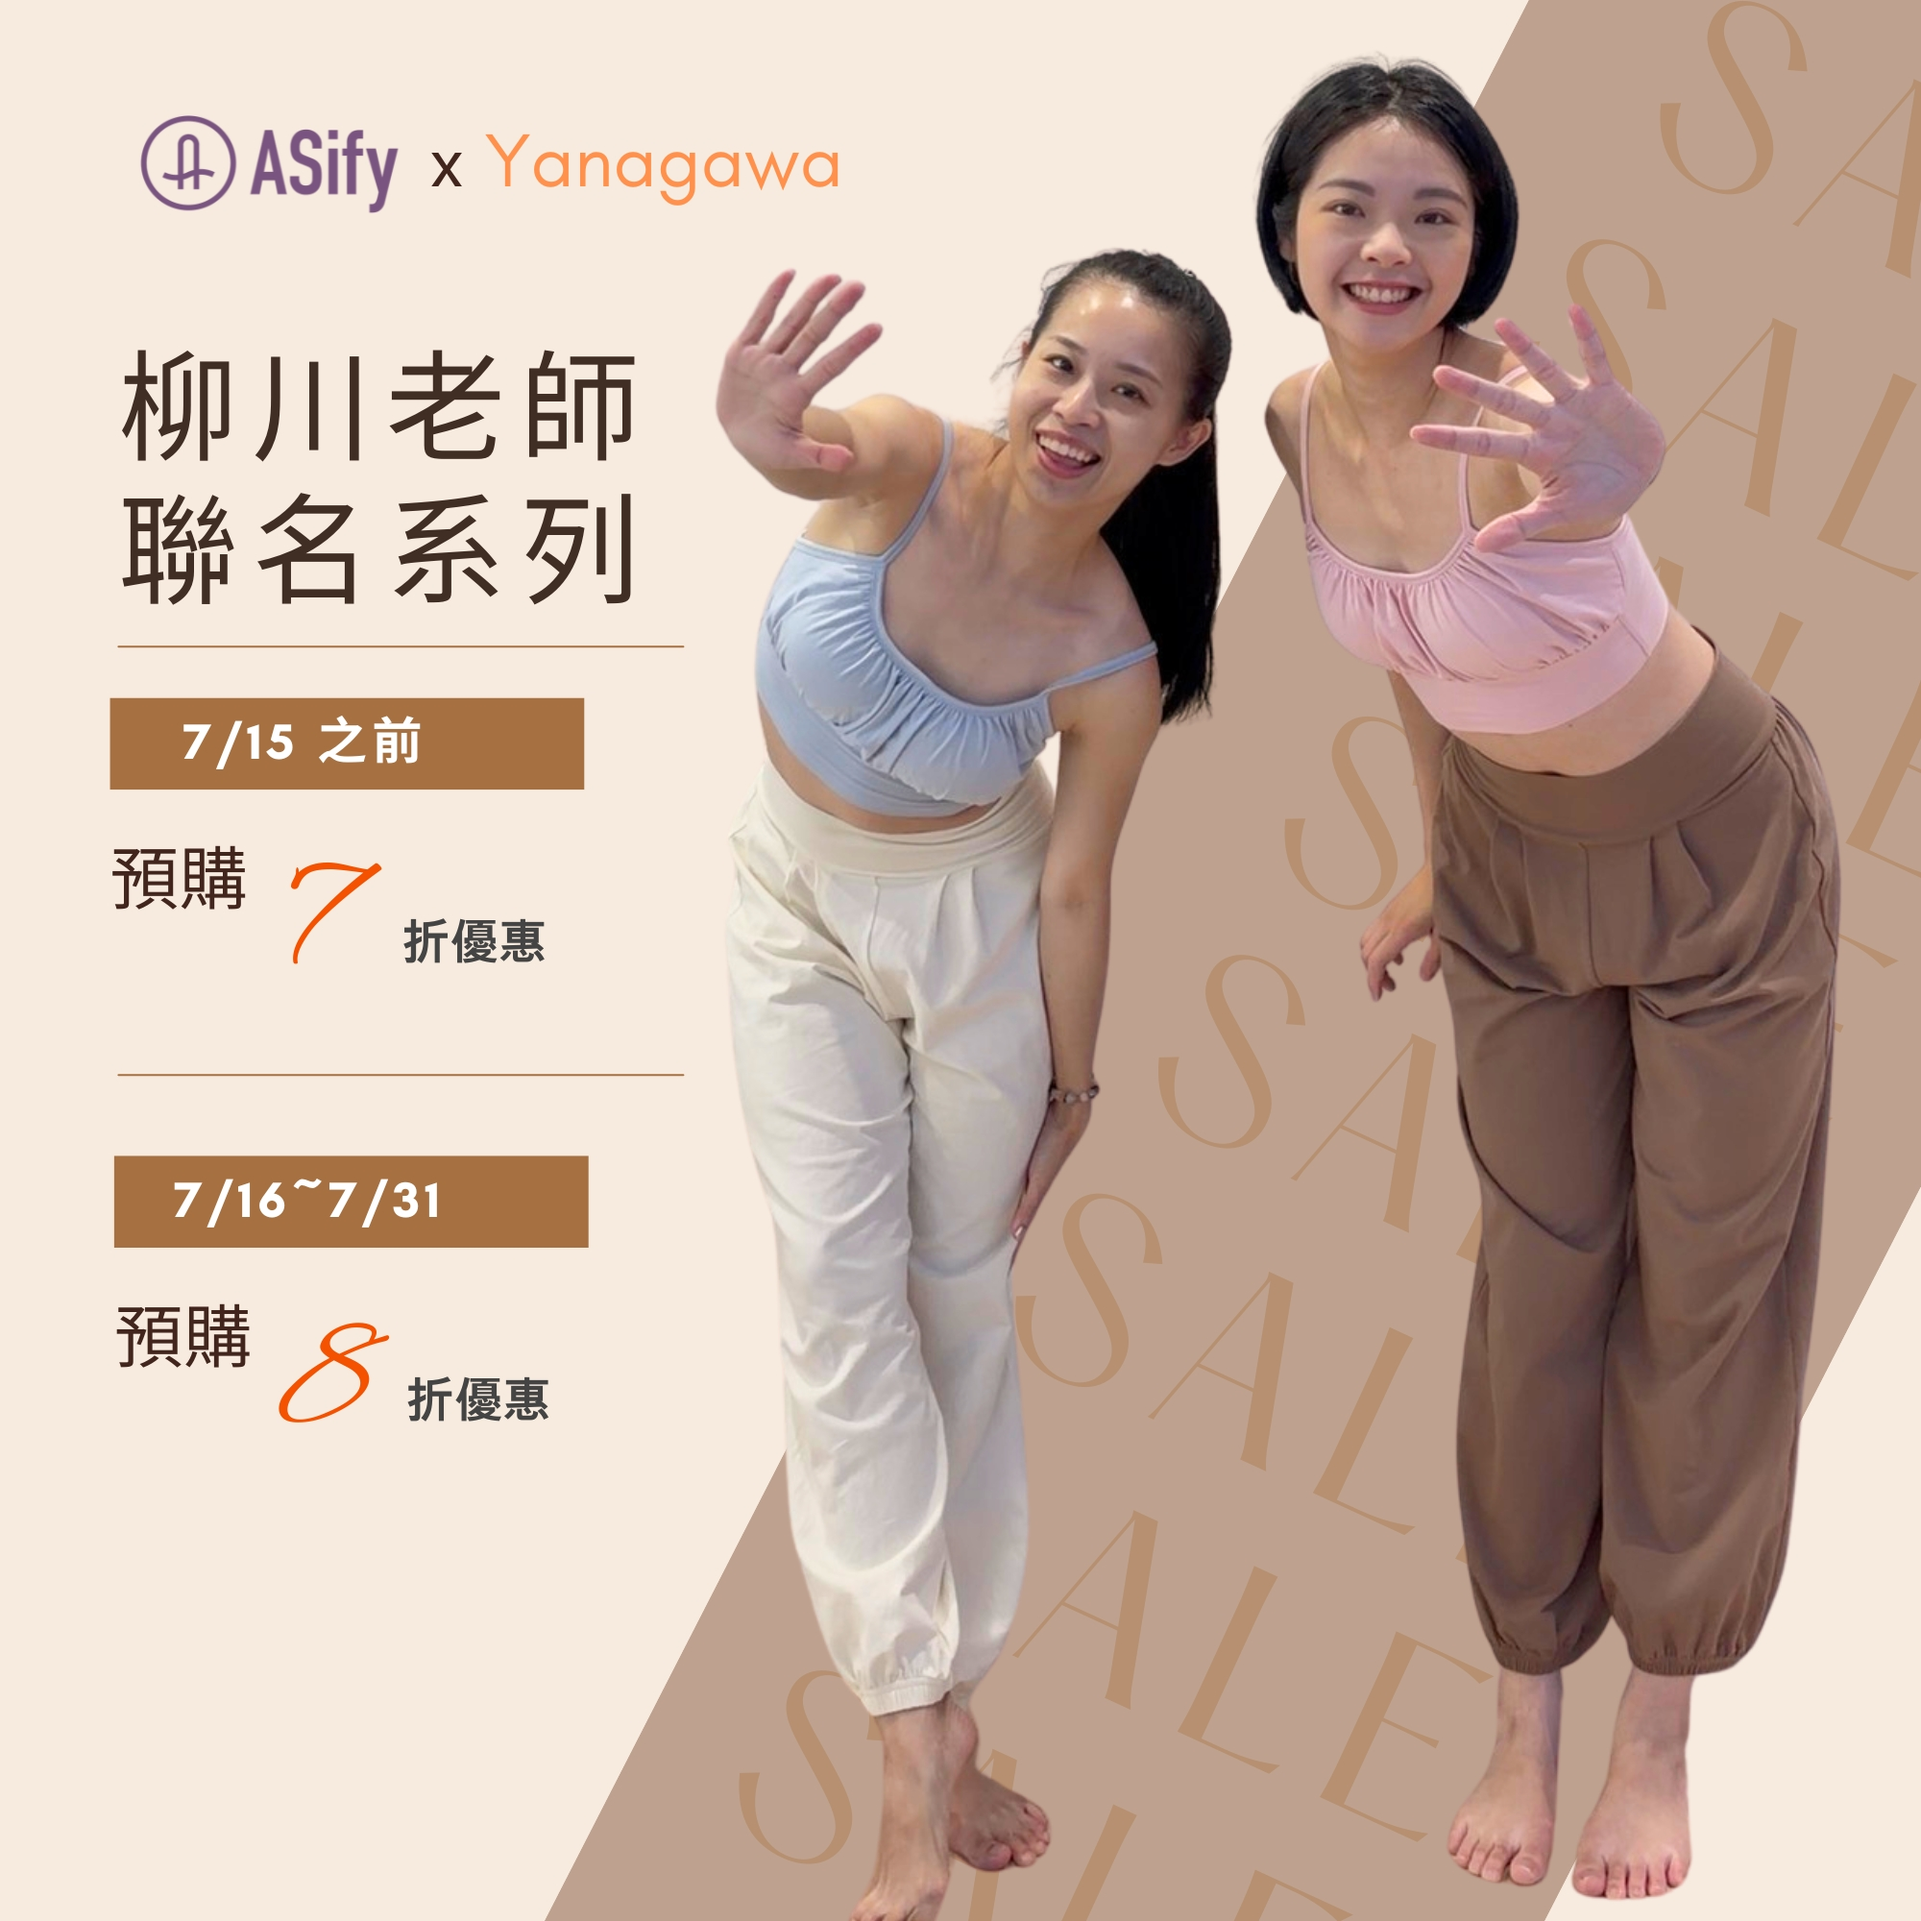
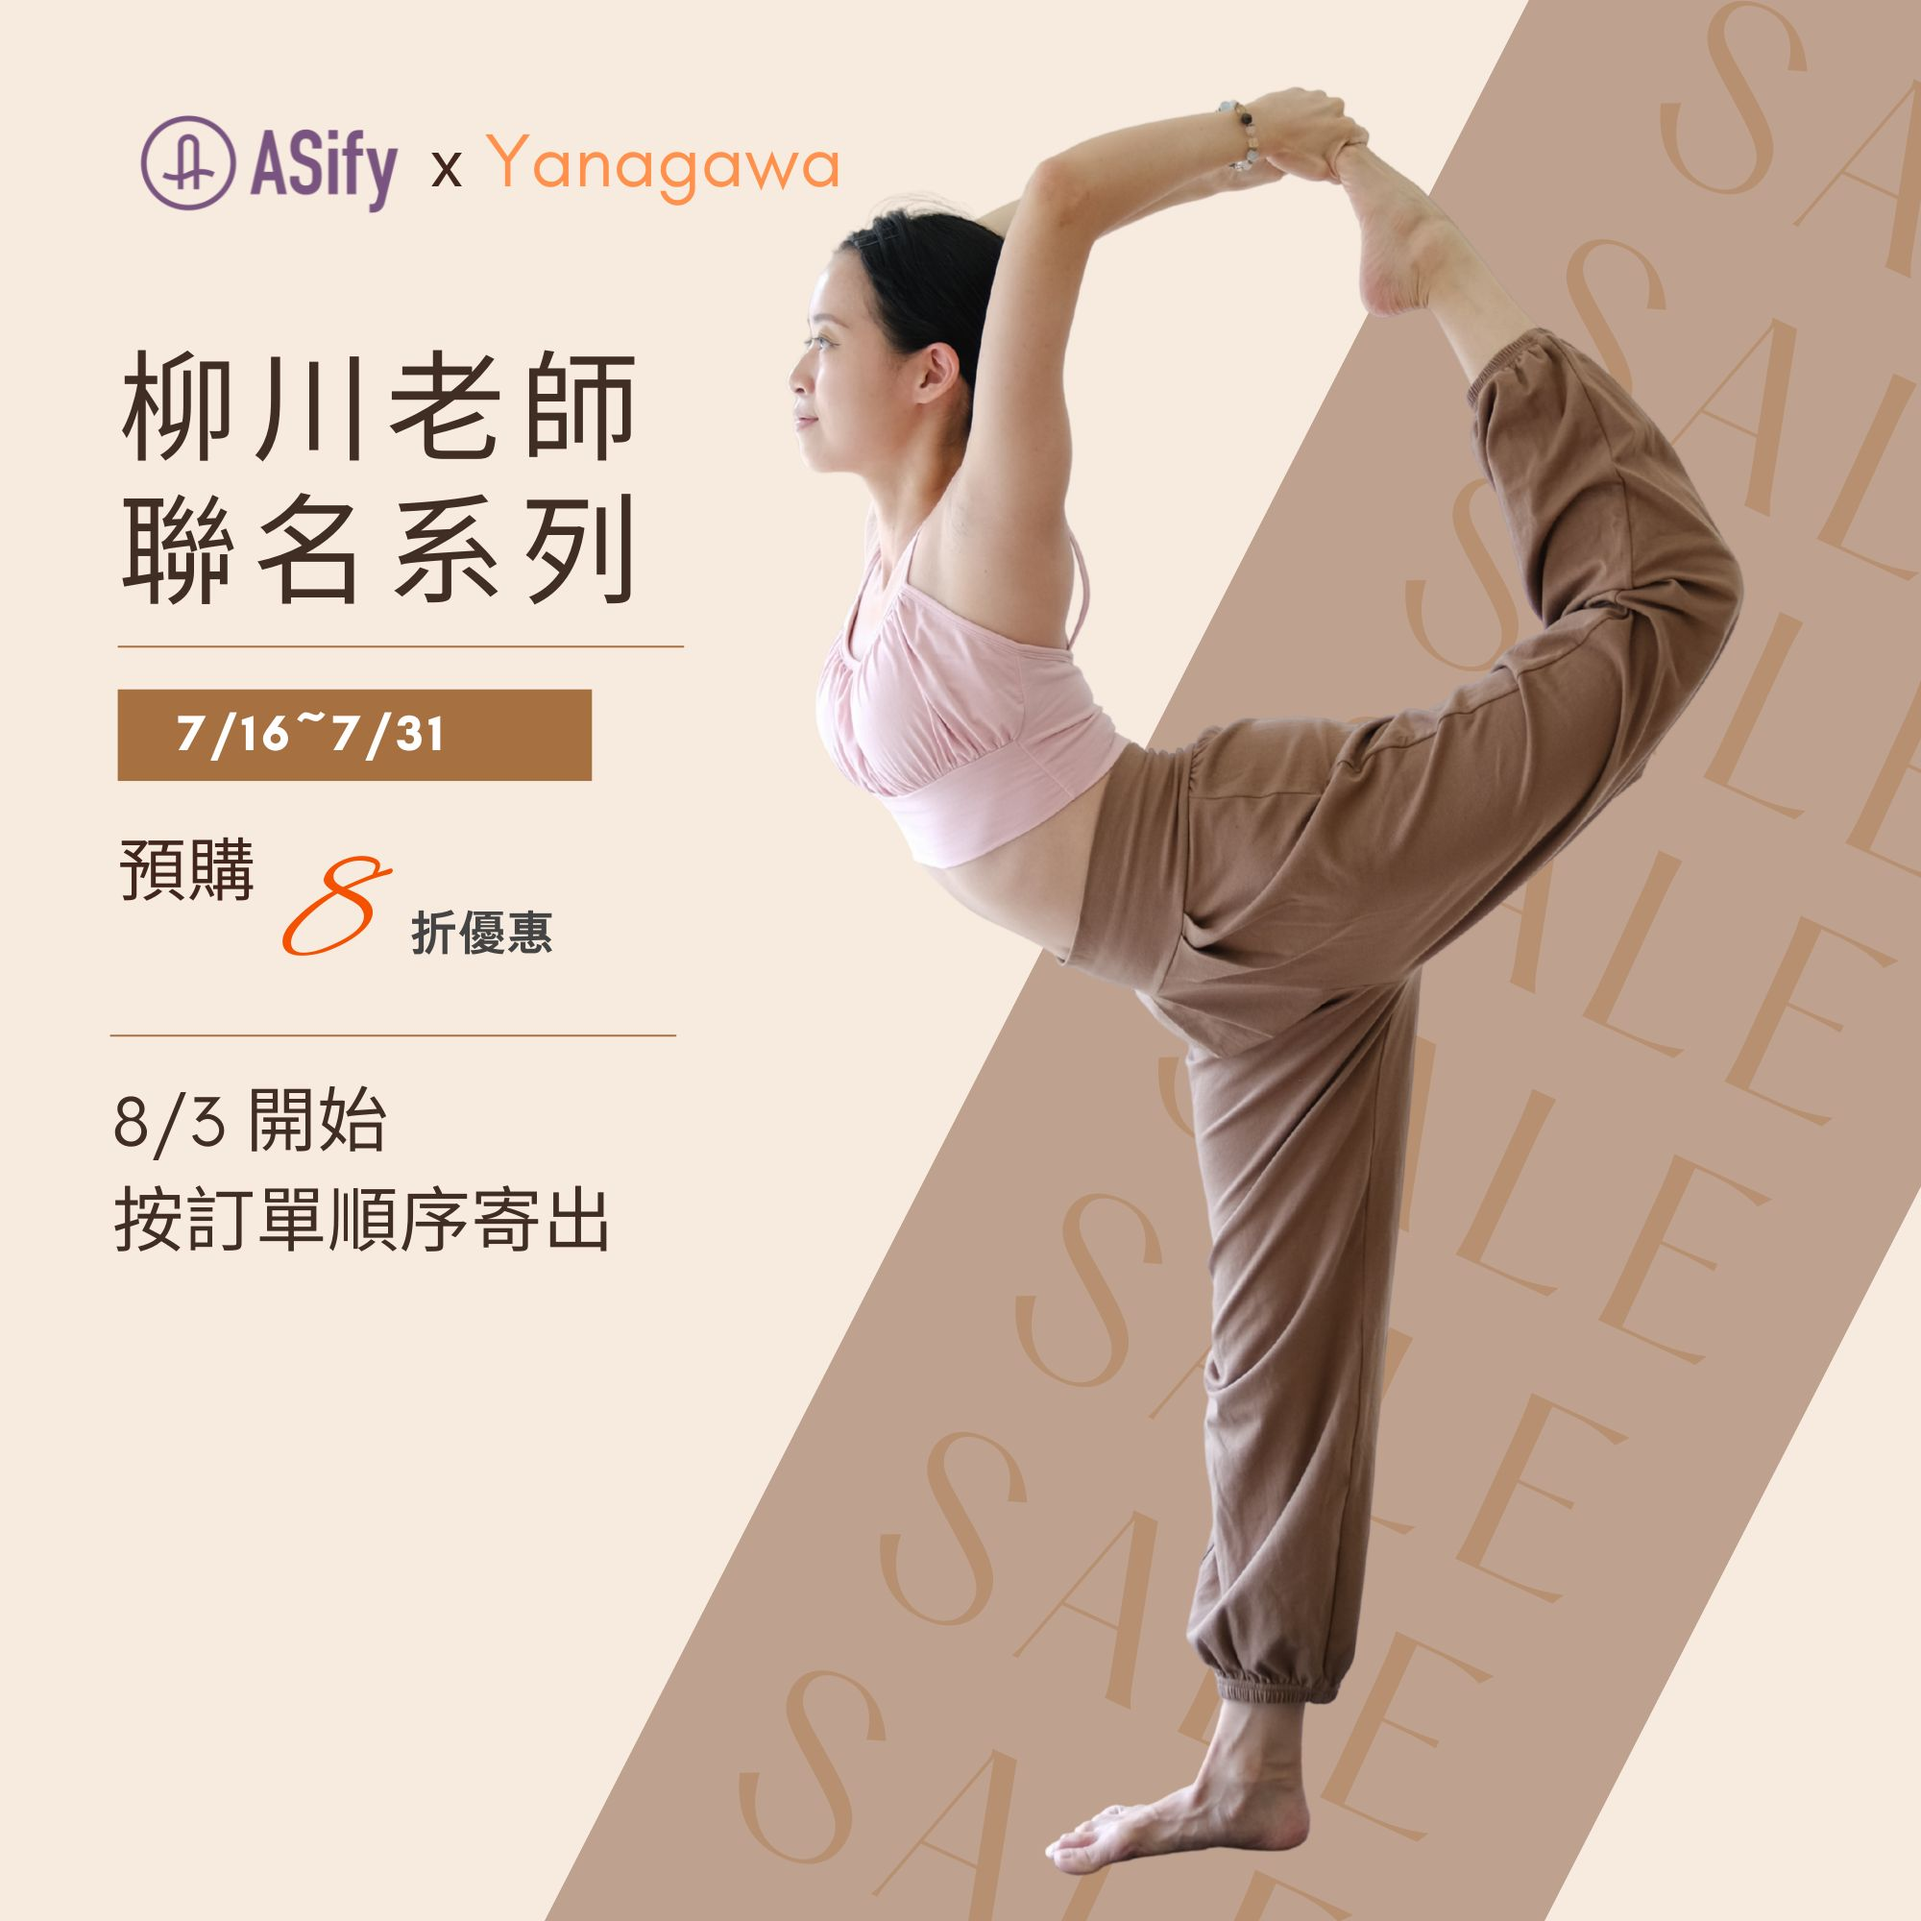
Update Yanagawa preorder discount

diff --git a/yanagawa-preorder/index.html b/yanagawa-preorder/index.html
@@ -3,8 +3,8 @@
 <head>
   <meta charset="utf-8">
   <meta name="viewport" content="width=device-width, initial-scale=1">
-  <title>ASify with Yanagawa 7/6 預購入口</title>
-  <meta name="description" content="ASify with Yanagawa 聯名新品 7/6 開始預購。白日夢細肩帶上衣與躺平寬褲預購入口。">
+  <title>ASify with Yanagawa 八折預購中</title>
+  <meta name="description" content="ASify with Yanagawa 聯名新品八折預購中。白日夢細肩帶上衣與躺平寬褲預購入口。">
   <style>
     :root {
       --ink: #242126;
@@ -555,11 +555,11 @@
         <div class="hero-copy">
[1 lines of base64/hex data omitted]
           <p class="eyebrow">with Yanagawa</p>
-          <h1 id="page-title"><span class="nowrap">躺平的白日夢</span><br>7/6 開始預購</h1>
+          <h1 id="page-title"><span class="nowrap">躺平的白日夢</span><br>八折預購中</h1>
           <p>這次聯名從教室裡長出來。柳川老師把學生、老師與練習者真正需要的衣服提案帶到 ASify，我們把布料、版型與穿著感慢慢整理成兩件可以陪妳練習，也能陪妳生活的新品。</p>
           <div class="hero-actions">
             <a class="button" href="https://go.asify.me/nr93dn" target="_blank" rel="noopener">前往預購商品</a>
-            <span class="hero-note">7/6 開啟預購，優惠與出貨資訊以官網頁面為準。</span>
+            <span class="hero-note">八折預購中，優惠與出貨資訊以官網頁面為準。</span>
           </div>
         </div>
         <div class="hero-image">
@@ -571,9 +571,9 @@
     <section class="campaign-visual" aria-label="ASify with Yanagawa 預購資訊">
       <div class="inner">
         <figure class="large-art">
-          <img src="./assets/yanagawa-preorder-main.jpg" alt="ASify x Yanagawa 柳川老師聯名系列預購資訊">
+          <img src="./assets/yanagawa-preorder-main.jpg" alt="ASify x Yanagawa 柳川老師聯名系列八折預購資訊">
         </figure>
-        <p class="caption-note">7/6 開始預購。7/15 前享預購 7 折，7/16-7/31 享預購 8 折；實際優惠與出貨資訊請以 ASify 官網預購頁為準。</p>
+        <p class="caption-note">八折預購中，實際優惠與出貨資訊請以 ASify 官網預購頁為準。</p>
       </div>
     </section>
 
@@ -680,11 +680,11 @@
         <div class="live-copy">
           <p class="eyebrow">live preview</p>
           <h2 id="live-title">先聽柳川老師聊聊這次新品。</h2>
-          <p>如果妳想更了解白日夢細肩帶上衣與躺平寬褲的設計起點、穿著情境與預購優惠，可以到柳川老師的 IG 看直播。</p>
+          <p>如果妳想更了解白日夢細肩帶上衣與躺平寬褲的設計起點與穿著情境，可以到柳川老師的 IG 看直播。</p>
           <ul class="live-meta" aria-label="柳川老師直播資訊">
             <li><strong>時間</strong><span>7/7（二）12:30 PM</span></li>
             <li><strong>頻道</strong><span>柳川老師 IG @iammissyanagawa</span></li>
-            <li><strong>內容</strong><span>產品介紹、學生穿著場景、創作心得與 7 折預購優惠。</span></li>
+            <li><strong>內容</strong><span>產品介紹、學生穿著場景與創作心得。</span></li>
           </ul>
           <a class="link-line" href="https://www.instagram.com/iammissyanagawa/" target="_blank" rel="noopener">前往柳川老師 IG</a>
         </div>
@@ -693,7 +693,7 @@
 
     <section class="section final" aria-labelledby="final-title">
       <div class="inner">
-        <p class="eyebrow">7/6 preorder</p>
+        <p class="eyebrow">preorder now</p>
         <h2 id="final-title">先到預購頁，把想穿的那件留起來。</h2>
         <p>白日夢細肩帶上衣與躺平寬褲會在同一個預購入口。優惠、尺寸、顏色與出貨資訊，請以 ASify 官網預購頁顯示為準。</p>
         <a class="button" href="https://go.asify.me/nr93dn" target="_blank" rel="noopener">前往預購商品</a>
